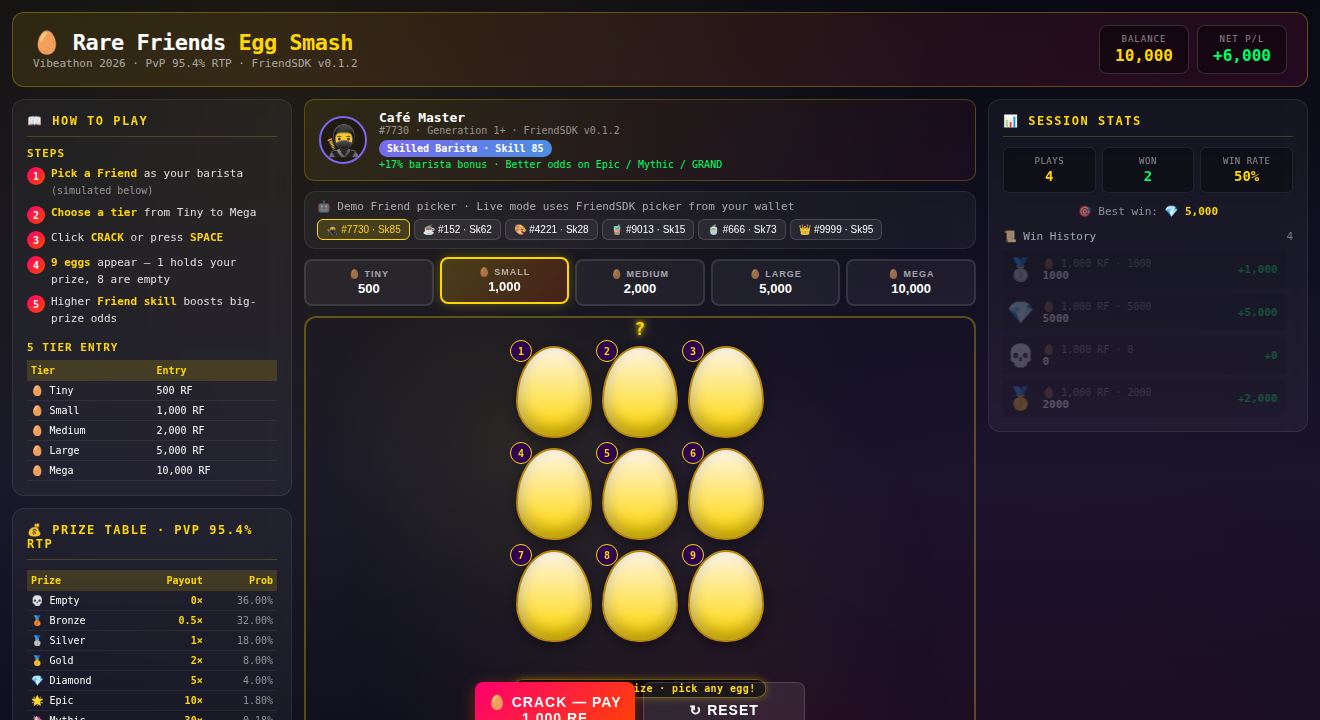
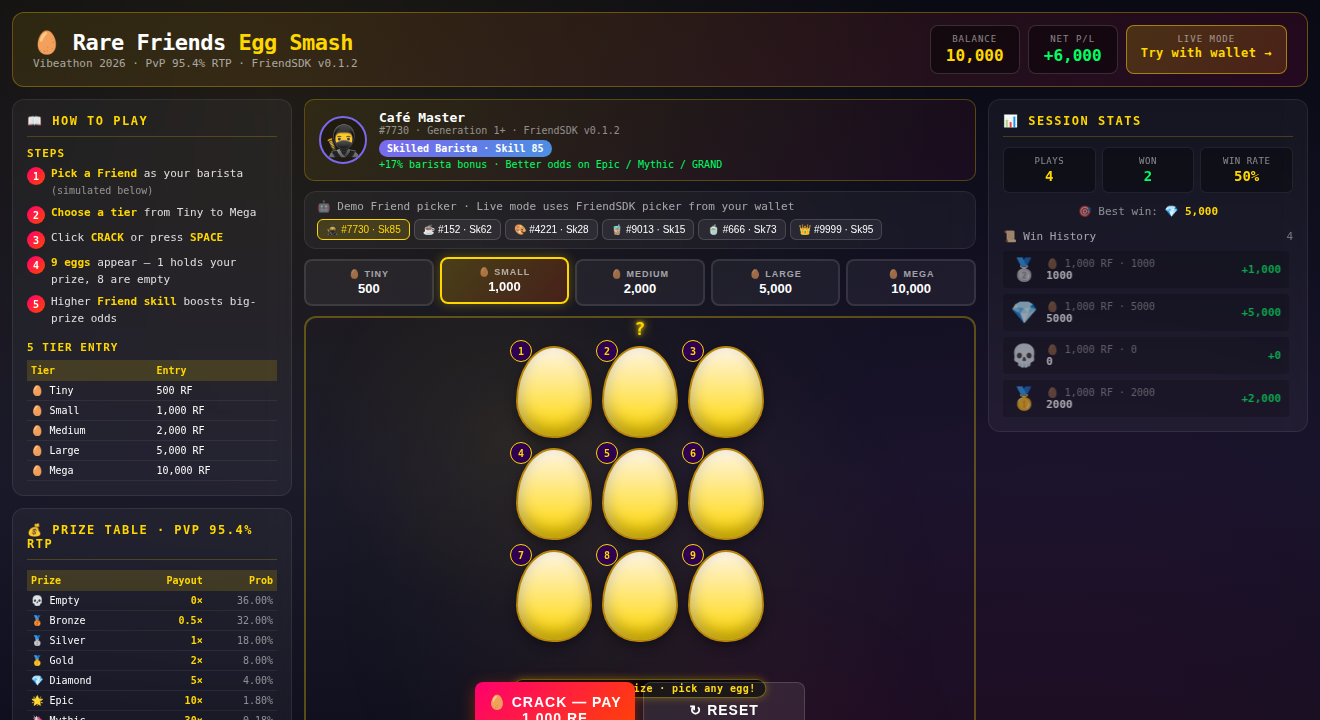
v9.4.3: add 'Live mode' launch button in header
- demo.html header right: new 'Live mode · Try with wallet →' pill
- Clicking jumps to index.html (FriendSDK live entry point)
- Helps reviewers transition from offline demo to live wallet mode

🤖 Generated with MiniMax-M3

diff --git a/games/cafe/demo-1-initial.html b/games/cafe/demo-1-initial.html
@@ -116,6 +116,24 @@
     .stat-pill-value.green { color: #00ff64; }
     .stat-pill-value.red { color: #ff4444; }
 
+    /* Live mode launch pill (clickable) */
+    a.stat-pill.live-launch {
+      text-decoration: none;
+      cursor: pointer;
+      background: linear-gradient(135deg, rgba(255, 215, 0, 0.18), rgba(255, 140, 0, 0.18));
+      border: 1px solid rgba(255, 215, 0, 0.5);
+      transition: transform 0.15s ease, background 0.15s ease;
+    }
+    a.stat-pill.live-launch:hover {
+      background: linear-gradient(135deg, rgba(255, 215, 0, 0.32), rgba(255, 140, 0, 0.32));
+      transform: translateY(-1px);
+    }
+    a.stat-pill.live-launch .stat-pill-value.live-arrow {
+      font-size: 12px;
+      color: #ffd700;
+      letter-spacing: 0.5px;
+    }
+
     /* ==================================================== */
     /* LEFT PANEL: Game rules                              */
     /* ==================================================== */
@@ -900,6 +918,11 @@
         <div class="stat-pill-label">Net P/L</div>
         <div class="stat-pill-value" id="today-pnl">+0</div>
       </div>
+      <a class="stat-pill live-launch" href="./index.html" id="live-launch"
+         title="Open the live SDK build (requires Robinhood Wallet + a Generations NFT)">
+        <div class="stat-pill-label">Live mode</div>
+        <div class="stat-pill-value live-arrow">Try with wallet →</div>
+      </a>
     </div>
   </div>
 

diff --git a/games/cafe/demo-2-master-mega.html b/games/cafe/demo-2-master-mega.html
@@ -116,6 +116,24 @@
     .stat-pill-value.green { color: #00ff64; }
     .stat-pill-value.red { color: #ff4444; }
 
+    /* Live mode launch pill (clickable) */
+    a.stat-pill.live-launch {
+      text-decoration: none;
+      cursor: pointer;
+      background: linear-gradient(135deg, rgba(255, 215, 0, 0.18), rgba(255, 140, 0, 0.18));
+      border: 1px solid rgba(255, 215, 0, 0.5);
+      transition: transform 0.15s ease, background 0.15s ease;
+    }
+    a.stat-pill.live-launch:hover {
+      background: linear-gradient(135deg, rgba(255, 215, 0, 0.32), rgba(255, 140, 0, 0.32));
+      transform: translateY(-1px);
+    }
+    a.stat-pill.live-launch .stat-pill-value.live-arrow {
+      font-size: 12px;
+      color: #ffd700;
+      letter-spacing: 0.5px;
+    }
+
     /* ==================================================== */
     /* LEFT PANEL: Game rules                              */
     /* ==================================================== */
@@ -900,6 +918,11 @@
         <div class="stat-pill-label">Net P/L</div>
         <div class="stat-pill-value" id="today-pnl">+0</div>
       </div>
+      <a class="stat-pill live-launch" href="./index.html" id="live-launch"
+         title="Open the live SDK build (requires Robinhood Wallet + a Generations NFT)">
+        <div class="stat-pill-label">Live mode</div>
+        <div class="stat-pill-value live-arrow">Try with wallet →</div>
+      </a>
     </div>
   </div>
 

diff --git a/games/cafe/demo-3-win-result.html b/games/cafe/demo-3-win-result.html
@@ -116,6 +116,24 @@
     .stat-pill-value.green { color: #00ff64; }
     .stat-pill-value.red { color: #ff4444; }
 
+    /* Live mode launch pill (clickable) */
+    a.stat-pill.live-launch {
+      text-decoration: none;
+      cursor: pointer;
+      background: linear-gradient(135deg, rgba(255, 215, 0, 0.18), rgba(255, 140, 0, 0.18));
+      border: 1px solid rgba(255, 215, 0, 0.5);
+      transition: transform 0.15s ease, background 0.15s ease;
+    }
+    a.stat-pill.live-launch:hover {
+      background: linear-gradient(135deg, rgba(255, 215, 0, 0.32), rgba(255, 140, 0, 0.32));
+      transform: translateY(-1px);
+    }
+    a.stat-pill.live-launch .stat-pill-value.live-arrow {
+      font-size: 12px;
+      color: #ffd700;
+      letter-spacing: 0.5px;
+    }
+
     /* ==================================================== */
     /* LEFT PANEL: Game rules                              */
     /* ==================================================== */
@@ -900,6 +918,11 @@
         <div class="stat-pill-label">Net P/L</div>
         <div class="stat-pill-value" id="today-pnl">+0</div>
       </div>
+      <a class="stat-pill live-launch" href="./index.html" id="live-launch"
+         title="Open the live SDK build (requires Robinhood Wallet + a Generations NFT)">
+        <div class="stat-pill-label">Live mode</div>
+        <div class="stat-pill-value live-arrow">Try with wallet →</div>
+      </a>
     </div>
   </div>
 

diff --git a/games/cafe/demo-4-jackpot.html b/games/cafe/demo-4-jackpot.html
@@ -116,6 +116,24 @@
     .stat-pill-value.green { color: #00ff64; }
     .stat-pill-value.red { color: #ff4444; }
 
+    /* Live mode launch pill (clickable) */
+    a.stat-pill.live-launch {
+      text-decoration: none;
+      cursor: pointer;
+      background: linear-gradient(135deg, rgba(255, 215, 0, 0.18), rgba(255, 140, 0, 0.18));
+      border: 1px solid rgba(255, 215, 0, 0.5);
+      transition: transform 0.15s ease, background 0.15s ease;
+    }
+    a.stat-pill.live-launch:hover {
+      background: linear-gradient(135deg, rgba(255, 215, 0, 0.32), rgba(255, 140, 0, 0.32));
+      transform: translateY(-1px);
+    }
+    a.stat-pill.live-launch .stat-pill-value.live-arrow {
+      font-size: 12px;
+      color: #ffd700;
+      letter-spacing: 0.5px;
+    }
+
     /* ==================================================== */
     /* LEFT PANEL: Game rules                              */
     /* ==================================================== */
@@ -900,6 +918,11 @@
         <div class="stat-pill-label">Net P/L</div>
         <div class="stat-pill-value" id="today-pnl">+0</div>
       </div>
+      <a class="stat-pill live-launch" href="./index.html" id="live-launch"
+         title="Open the live SDK build (requires Robinhood Wallet + a Generations NFT)">
+        <div class="stat-pill-label">Live mode</div>
+        <div class="stat-pill-value live-arrow">Try with wallet →</div>
+      </a>
     </div>
   </div>
 

diff --git a/games/cafe/demo.html b/games/cafe/demo.html
@@ -116,6 +116,24 @@
     .stat-pill-value.green { color: #00ff64; }
     .stat-pill-value.red { color: #ff4444; }
 
+    /* Live mode launch pill (clickable) */
+    a.stat-pill.live-launch {
+      text-decoration: none;
+      cursor: pointer;
+      background: linear-gradient(135deg, rgba(255, 215, 0, 0.18), rgba(255, 140, 0, 0.18));
+      border: 1px solid rgba(255, 215, 0, 0.5);
+      transition: transform 0.15s ease, background 0.15s ease;
+    }
+    a.stat-pill.live-launch:hover {
+      background: linear-gradient(135deg, rgba(255, 215, 0, 0.32), rgba(255, 140, 0, 0.32));
+      transform: translateY(-1px);
+    }
+    a.stat-pill.live-launch .stat-pill-value.live-arrow {
+      font-size: 12px;
+      color: #ffd700;
+      letter-spacing: 0.5px;
+    }
+
     /* ==================================================== */
     /* LEFT PANEL: Game rules                              */
     /* ==================================================== */
@@ -900,6 +918,11 @@
         <div class="stat-pill-label">Net P/L</div>
         <div class="stat-pill-value" id="today-pnl">+0</div>
       </div>
+      <a class="stat-pill live-launch" href="./index.html" id="live-launch"
+         title="Open the live SDK build (requires Robinhood Wallet + a Generations NFT)">
+        <div class="stat-pill-label">Live mode</div>
+        <div class="stat-pill-value live-arrow">Try with wallet →</div>
+      </a>
     </div>
   </div>
 
